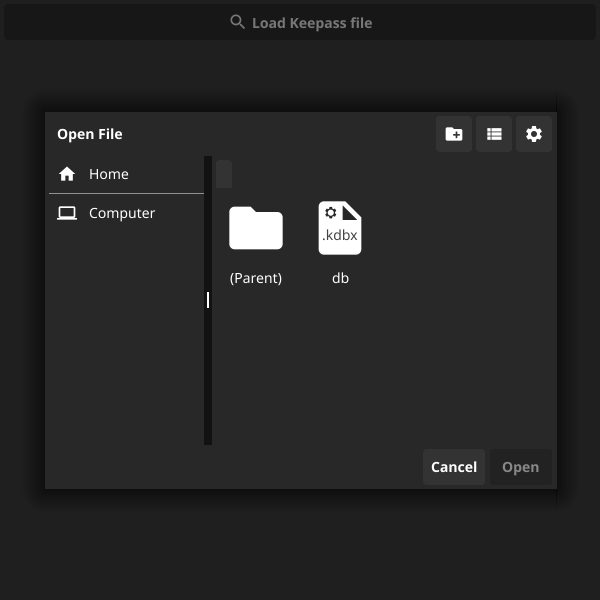
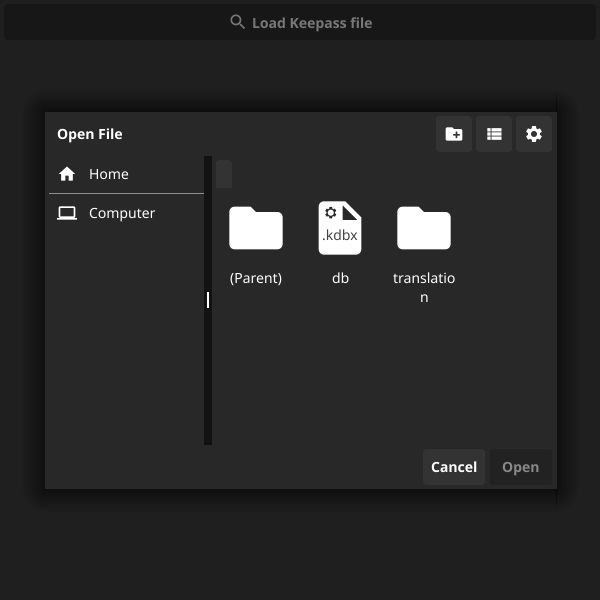
Actually test that translations work

Changed region(s): [[0.66, 0.33, 0.75, 0.42], [0.66, 0.45, 0.75, 0.51]]

diff --git a/internal/ui/home_view_test.go b/internal/ui/home_view_test.go
@@ -1,16 +1,21 @@
 package ui_test
 
 import (
+	"embed"
 	mocks_ui "keepassui/internal/mocks/ui"
 	"keepassui/internal/ui"
 	"testing"
 
 	"fyne.io/fyne/v2"
 	"fyne.io/fyne/v2/container"
+	"fyne.io/fyne/v2/lang"
 	"fyne.io/fyne/v2/test"
 	"fyne.io/fyne/v2/widget"
 	"go.uber.org/mock/gomock"
 )
+
+//go:embed testdata/files/translation
+var translations embed.FS
 
 func TestCreateHomeView(t *testing.T) {
 	w := test.NewWindow(container.NewWithoutLayout())
@@ -22,6 +27,36 @@ func TestCreateHomeView(t *testing.T) {
 	w.Resize(fyne.Size{Width: 600, Height: 600})
 
 	test.AssertImageMatches(t, "CreateHomeView.png", w.Canvas().Capture())
+}
+
+func TestCreateHomeViewWithLangSpanish(t *testing.T) {
+	t.Setenv("LANG", "es")
+	err := lang.AddTranslationsFS(
+		translations, "testdata/files/translation",
+	)
+	if err != nil {
+		t.Error("Error initialising translations")
+	}
+
+	t.Cleanup(func() {
+		t.Setenv("LANG", "en")
+		err = lang.AddTranslationsFS(
+			translations, "testdata/files/translation",
+		)
+		if err != nil {
+			t.Error("Error initialising translations")
+		}
+	})
+
+	w := test.NewWindow(container.NewWithoutLayout())
+
+	dbFileEntry := ui.CreateDBFileEntry(nil, w)
+	homeView := ui.CreateHomeView(&dbFileEntry, nil, w)
+
+	w.SetContent(homeView.GetPaintedContainer())
+	w.Resize(fyne.Size{Width: 600, Height: 600})
+
+	test.AssertImageMatches(t, "CreateHomeView_Spanish.png", w.Canvas().Capture())
 }
 
 func TestHomeViewTapOnNewDBCallsTakeOverPasswordConfirm(t *testing.T) {
